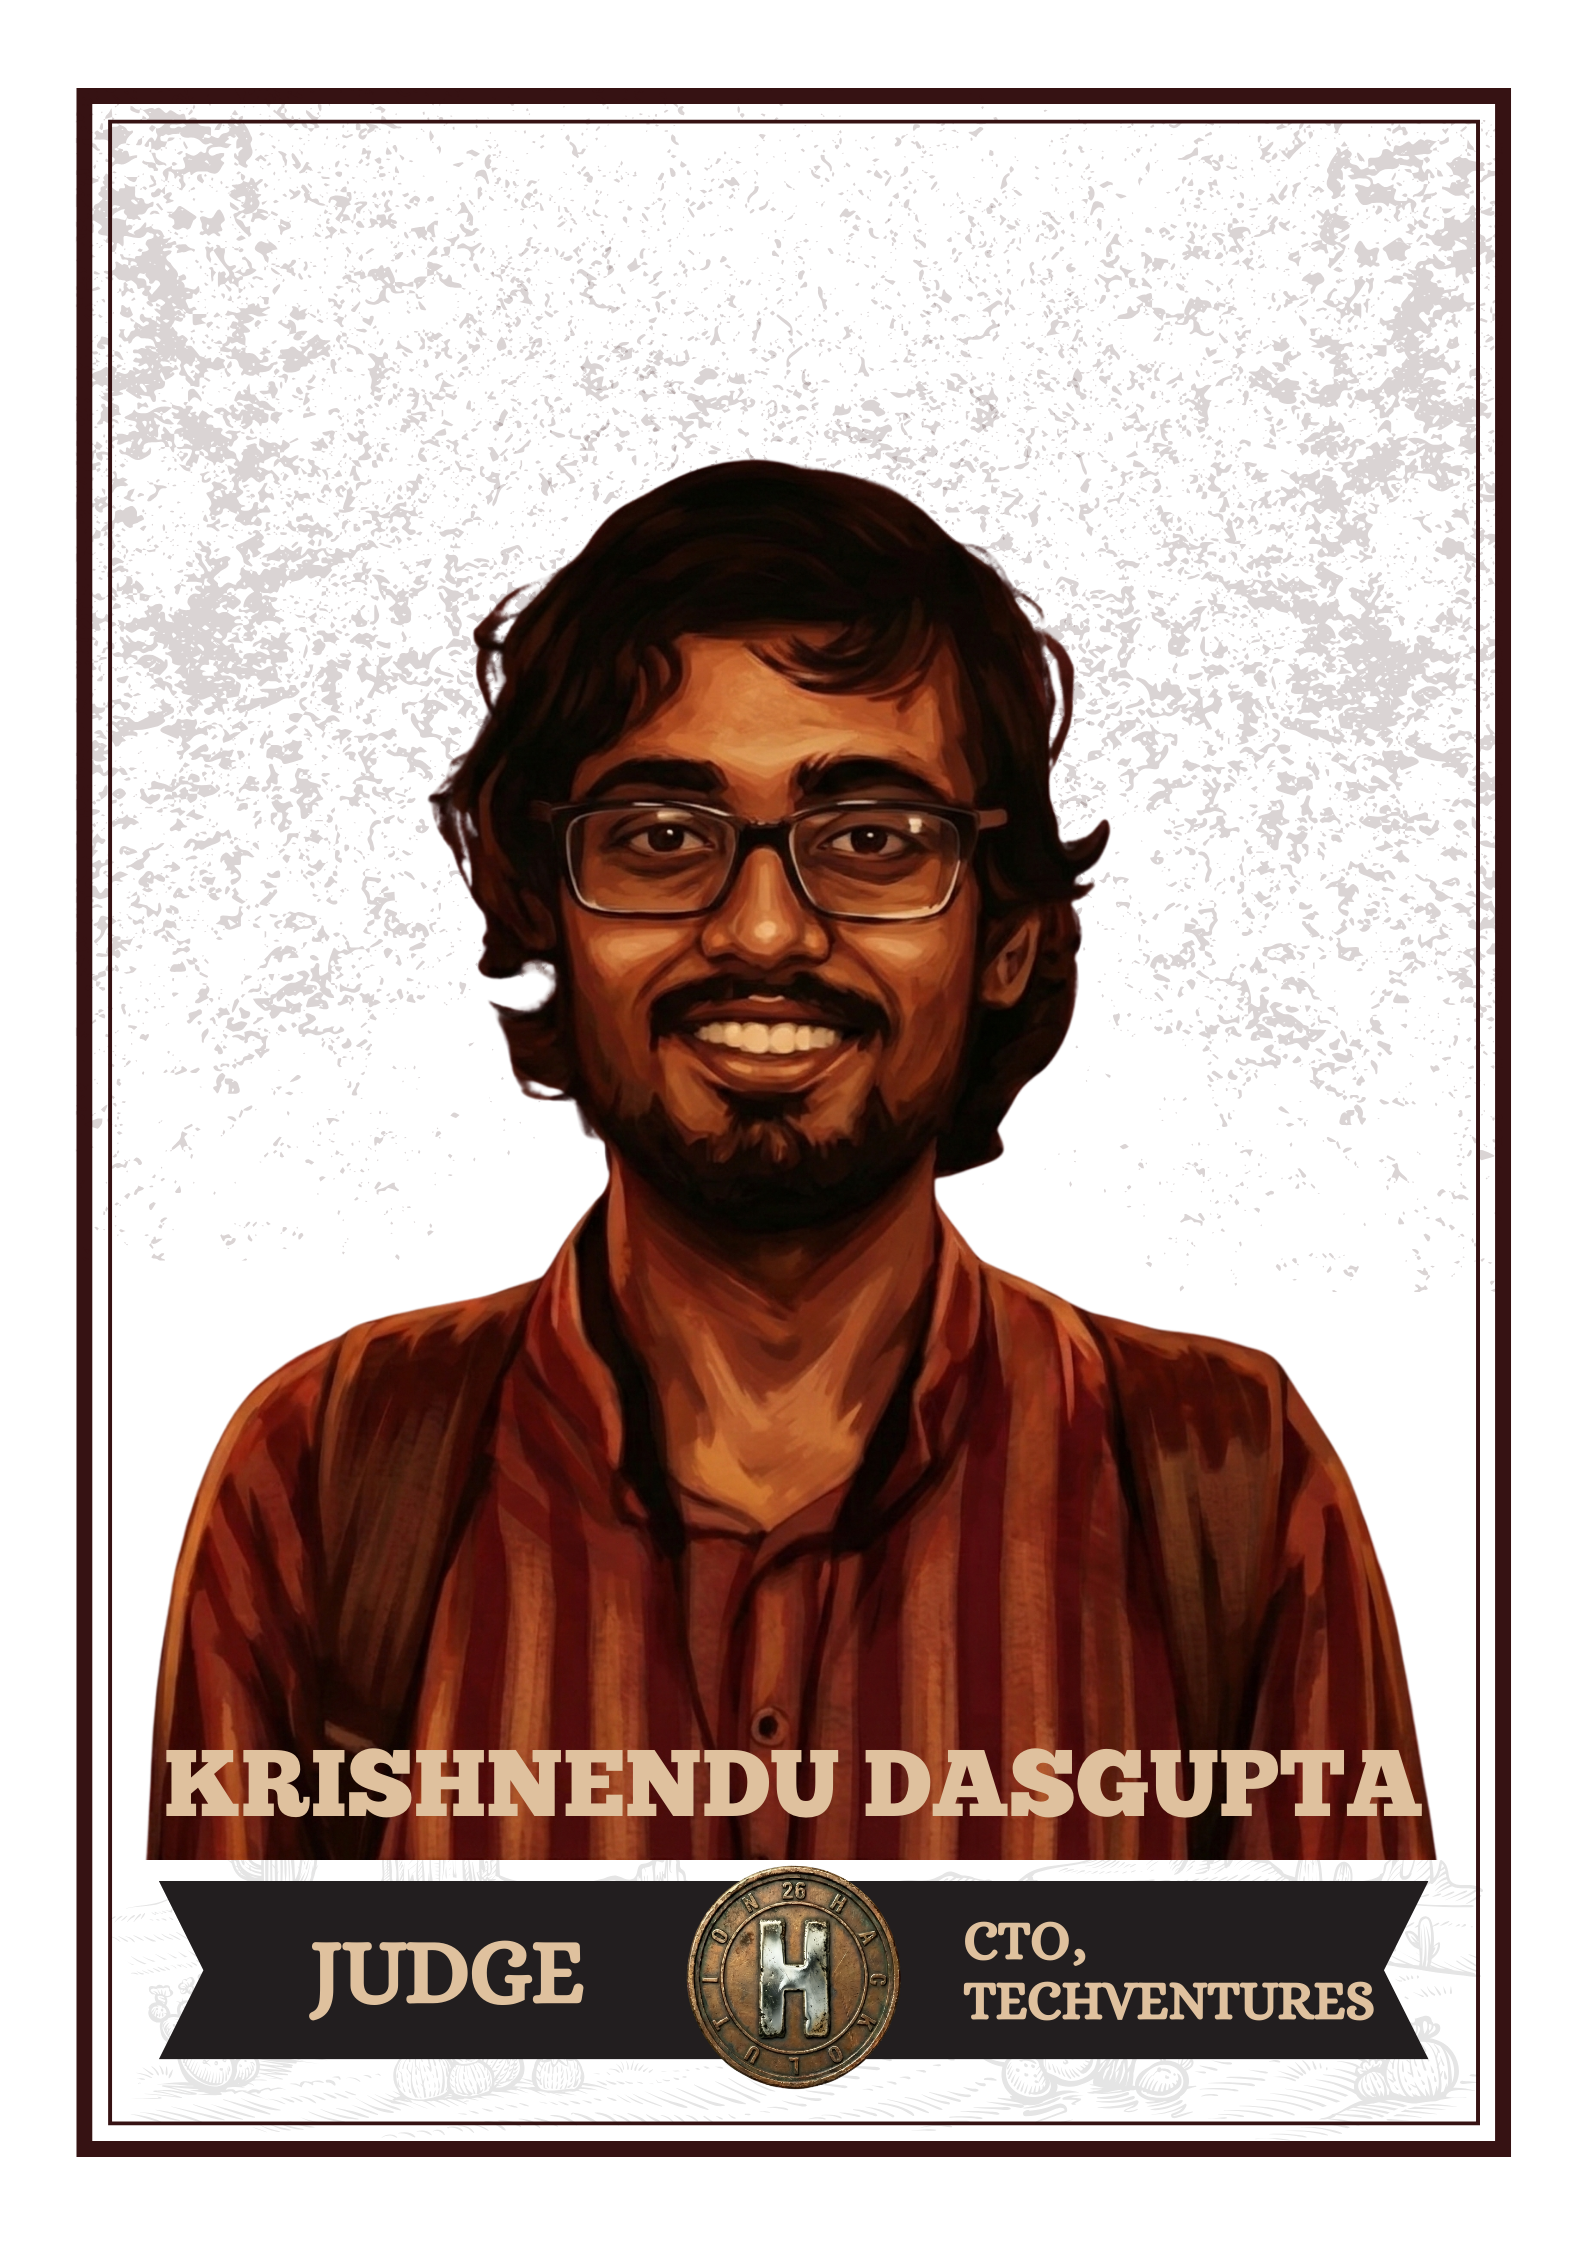
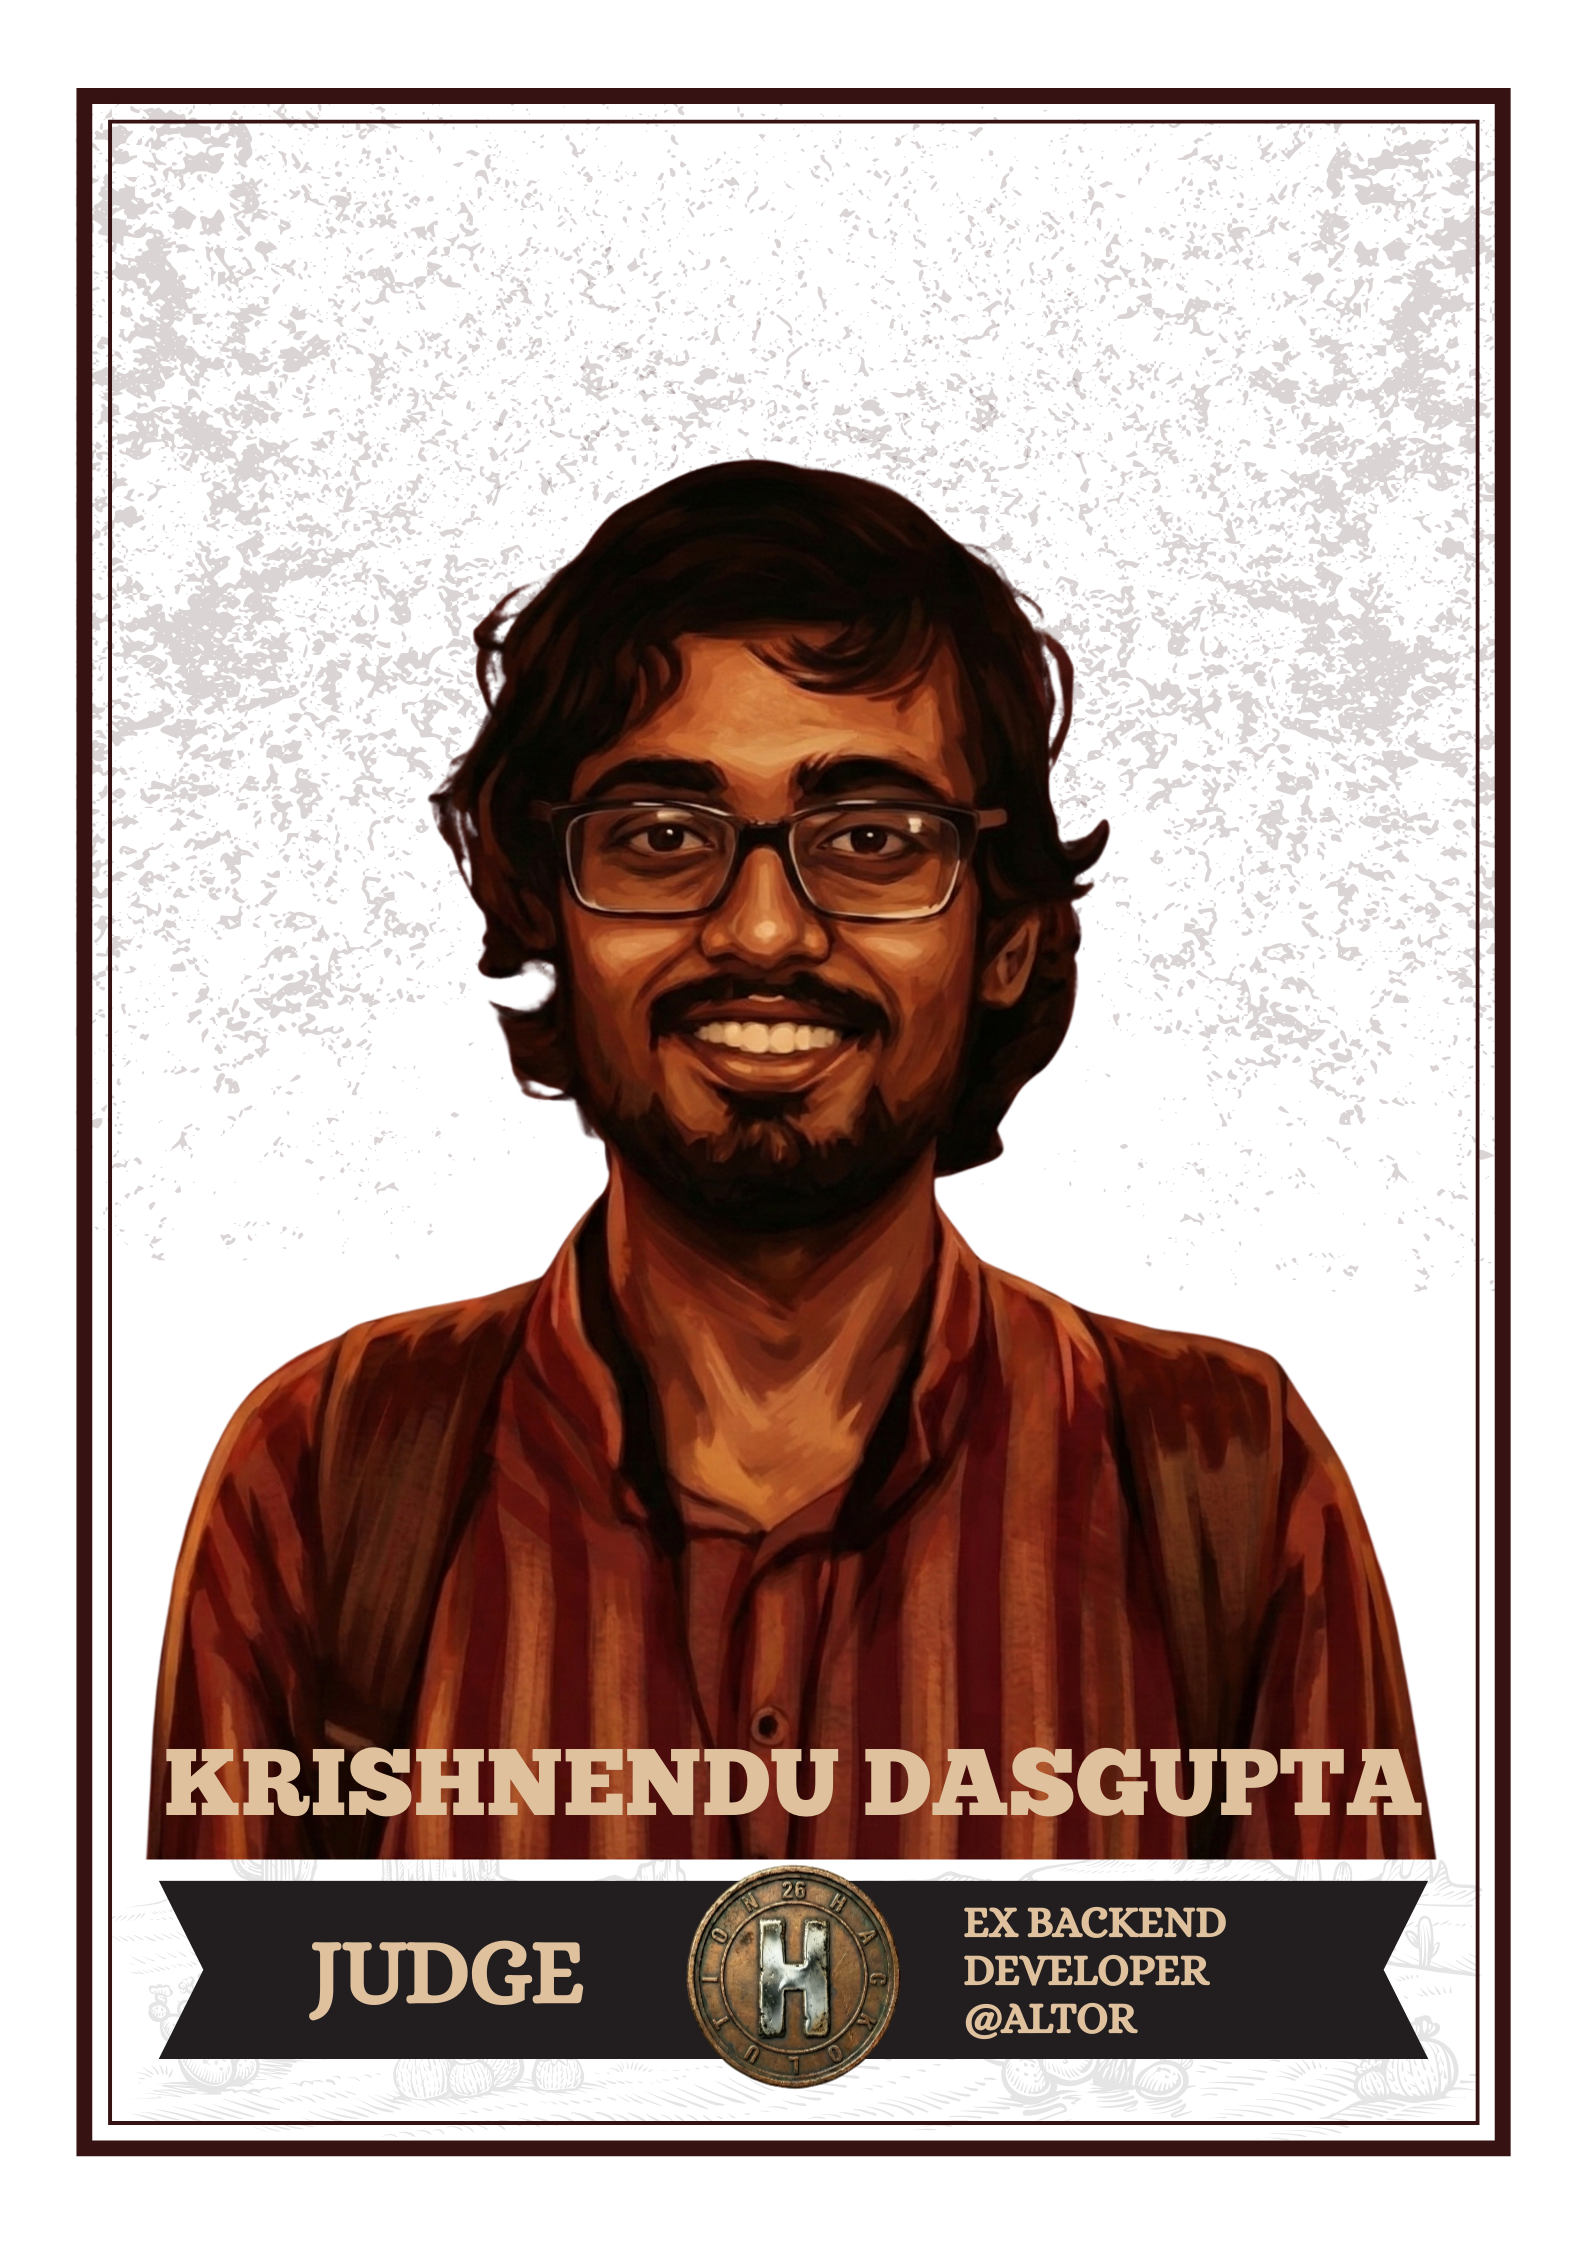
judge fix

diff --git a/src/components/Judges.jsx b/src/components/Judges.jsx
@@ -2,7 +2,7 @@ import React, { useEffect, useRef } from 'react';
 
 const judgesData = [
     { name: 'AVIK AGARWALA', role: 'SYSTEM ENGINEER @ TCS', imgSrc: '/assets/JUDGES/AVIK.png', desc: 'A recognized pioneer in the field of artificial thought. Her insights guide our technical evaluations with precise logic.', linkedin: 'https://www.linkedin.com/in/avikagarwala/' },
-    { name: 'KRISHNENDU DASGUPTA', role: 'CTO, TechVentures', imgSrc: '/assets/JUDGES/KRISNENDU.png', desc: 'An experienced captain of industry, overseeing wide-scale infrastructural feats across the globe. He seeks true substance.', linkedin: 'https://www.linkedin.com/in/krishnendudg/' },
+    { name: 'KRISHNENDU DASGUPTA', role: 'Ex Backend Developer @Altor', imgSrc: '/assets/JUDGES/KRISNENDU.png', desc: 'An experienced captain of industry, overseeing wide-scale infrastructural feats across the globe. He seeks true substance.', linkedin: 'https://www.linkedin.com/in/krishnendudg/' },
     { name: 'SUBHAM BHATTACHARYA', role: 'SWE @ ABP', imgSrc: '/assets/JUDGES/SUBHAM.png', desc: 'The remarkable mind behind some of the most reliable networks of our modern era. She honors speed and flawless execution.', linkedin: 'https://www.linkedin.com/in/subham2409/' },
 ];
 
